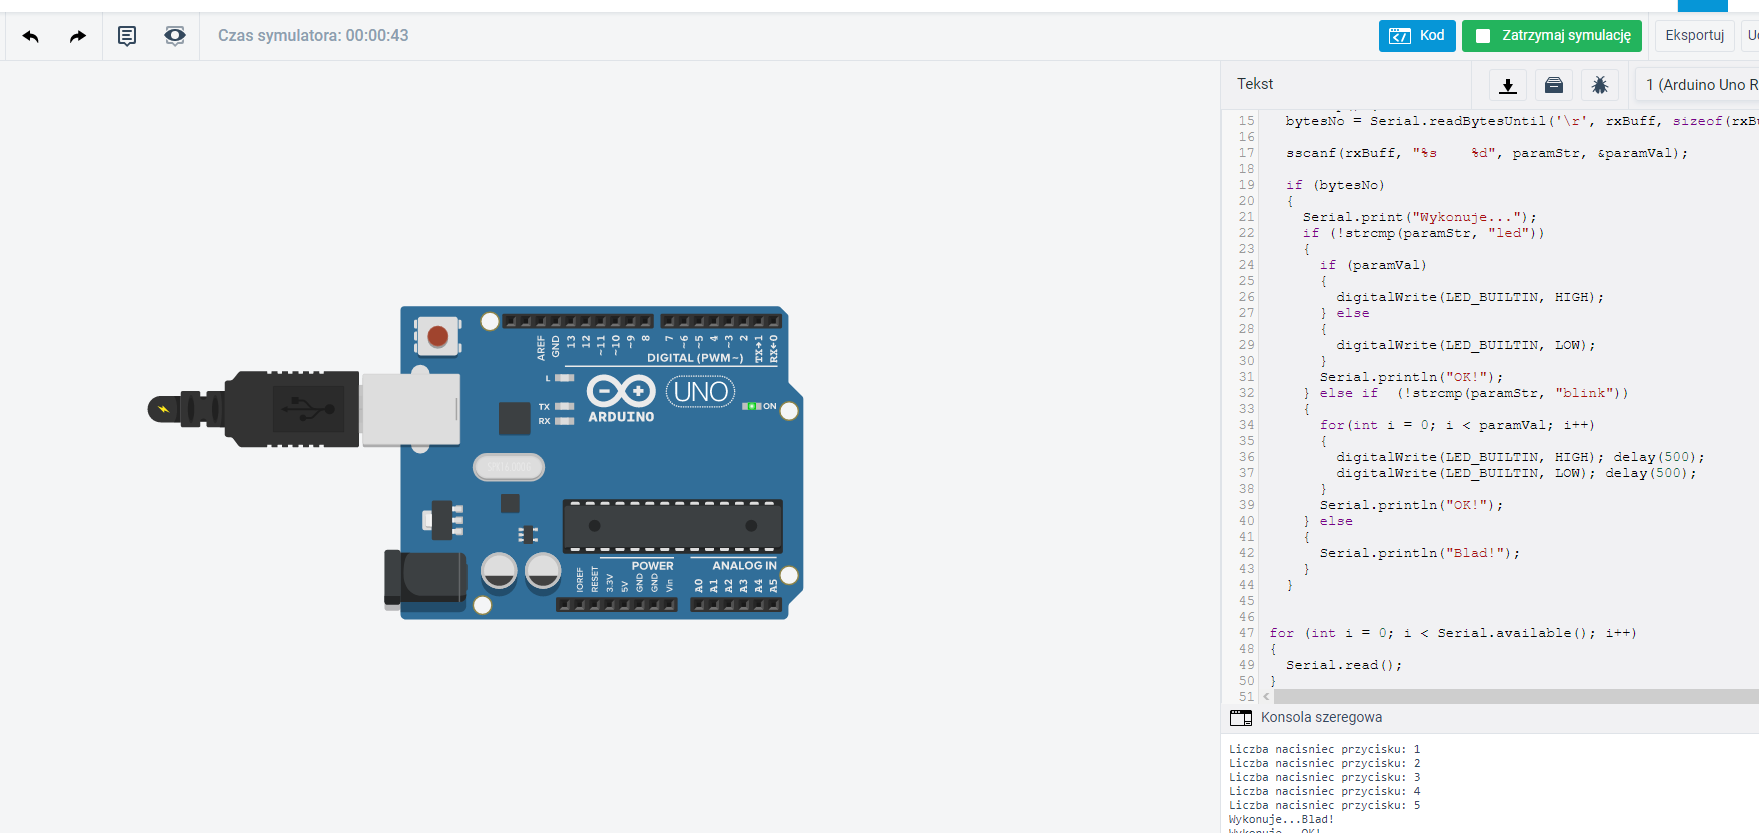
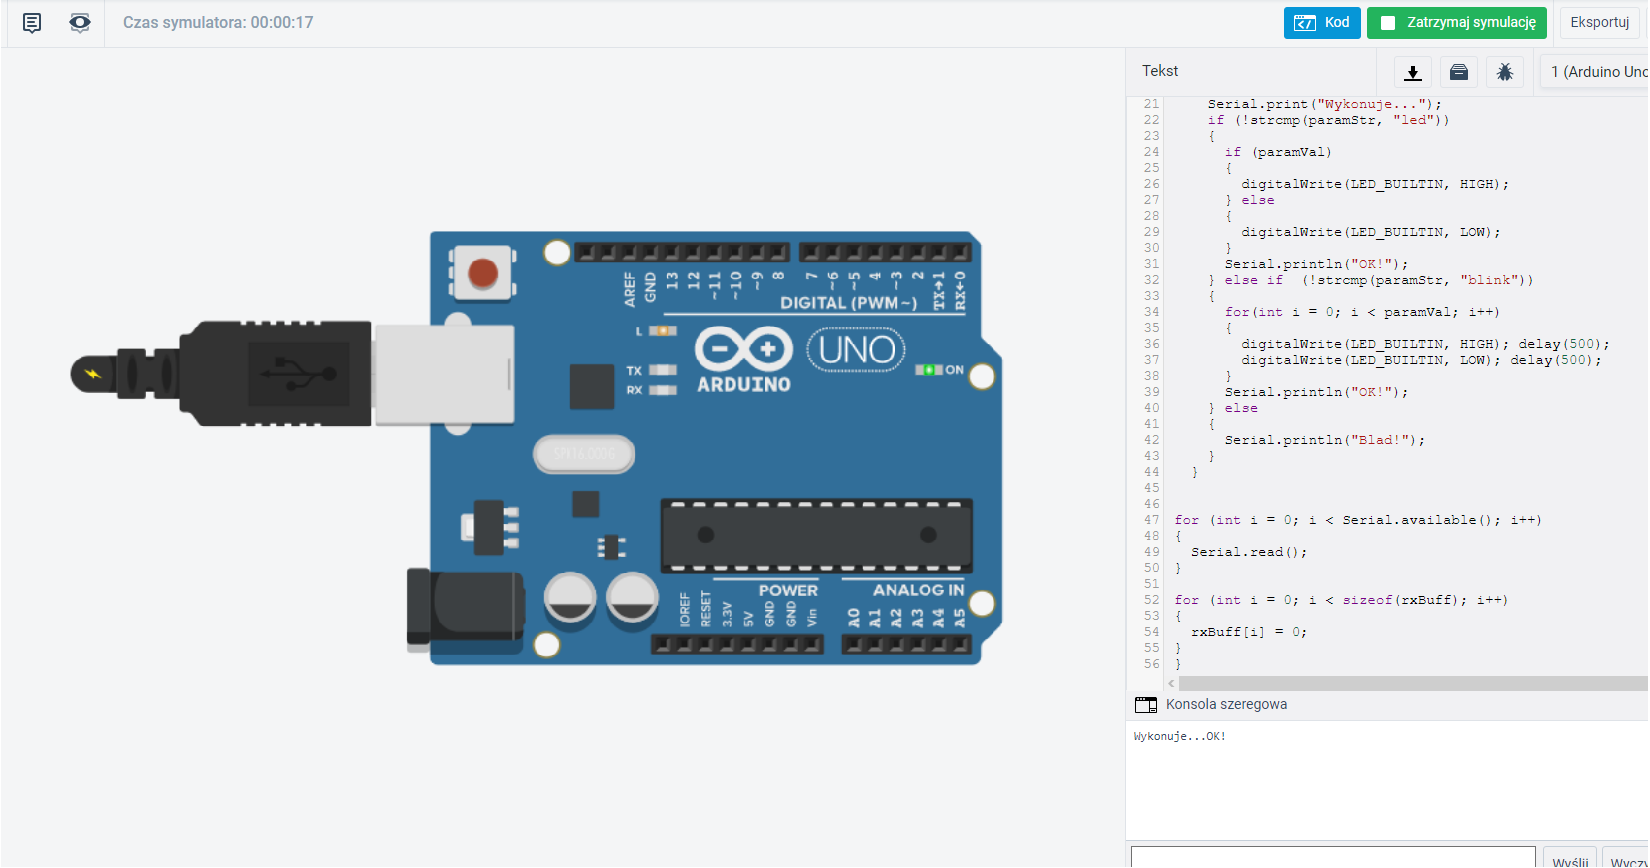
Wykonano zadanie 3.2.3 – konsola wiersza poleceń

diff --git a/Zadanie-3-2/src/main.cpp b/Zadanie-3-2/src/main.cpp
@@ -1,35 +1,57 @@
 #include <Arduino.h>
 
-#define BUTTON 2
-
-int stanPrzycisku;
-int poprzedniStanPrzycisku = LOW;
-unsigned long poprzedniCzas = 0;
-unsigned int liczba_nacisniec = 0;
+char rxBuff[32];
+int bytesNo = 0;
+char paramStr[16];
+int paramVal = 0;
 
 void setup() {
   Serial.begin(9600);
-  pinMode(BUTTON, INPUT);
+  Serial.setTimeout(4000);
+
+  pinMode(LED_BUILTIN, OUTPUT);
 }
 
 void loop() {
-  int odczyt = digitalRead(BUTTON);
+  bytesNo = Serial.readBytesUntil('\r', rxBuff, sizeof(rxBuff) - 1);
 
-  if (odczyt != poprzedniStanPrzycisku) {
-    poprzedniCzas = millis();
-  }
+  sscanf(rxBuff, "%s    %d", paramStr, &paramVal);
 
-  if ((millis() - poprzedniCzas) > 50) {
-    if (odczyt != stanPrzycisku) {
-      stanPrzycisku = odczyt;
-      if (stanPrzycisku == HIGH) {
-        liczba_nacisniec++;
-
-        Serial.print("Liczba nacisniec przycisku: ");
-        Serial.println(liczba_nacisniec);
+  if (bytesNo)
+  {
+    Serial.print("Wykonuje...");
+    if (!strcmp(paramStr, "led"))
+    {
+      if (paramVal)
+      {
+        digitalWrite(LED_BUILTIN, HIGH);
+      } else 
+      {
+        digitalWrite(LED_BUILTIN, LOW);
       }
+      Serial.println("OK!");
+    } else if  (!strcmp(paramStr, "blink"))
+    {
+      for(int i = 0; i < paramVal; i++)
+      {
+        digitalWrite(LED_BUILTIN, HIGH); delay(500);
+        digitalWrite(LED_BUILTIN, LOW); delay(500);
+      }
+      Serial.println("OK!");
+    } else 
+    {
+      Serial.println("Blad!");
     }
   }
 
-  poprzedniStanPrzycisku = odczyt;
+
+for (int i = 0; i < Serial.available(); i++)
+{
+  Serial.read();
+}
+
+for (int i = 0; i < sizeof(rxBuff); i++)
+{
+  rxBuff[i] = 0;
+}
 }
